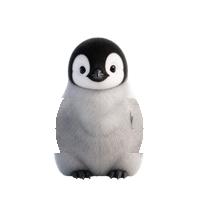
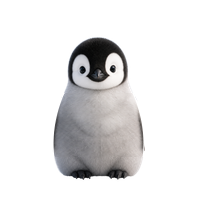
Add files via upload

diff --git a/index.html b/index.html
@@ -146,8 +146,8 @@ h1 { font-family: var(--f-display); font-weight: 400; font-size: 34px; line-heig
 
 .cheer { display: flex; align-items: center; gap: 12px; }
 .pup > img { position: absolute; inset: 0; width: 100%; height: 100%; }
-.pup .wingL { transform-origin: 35% 50%; animation: flapL 2.4s ease-in-out infinite; }
-.pup .wingR { transform-origin: 65% 50%; animation: flapR 2.4s ease-in-out infinite; }
+.pup .wingL { transform-origin: 31% 50%; animation: flapL 2.4s ease-in-out infinite; }
+.pup .wingR { transform-origin: 69% 50%; animation: flapR 2.4s ease-in-out infinite; }
 .pup.hop .wingL { animation: flapL .5s ease-in-out 2; }
 .pup.hop .wingR { animation: flapR .5s ease-in-out 2; }
 @keyframes flapL { 0%, 45%, 100% { transform: rotate(0deg); } 10%, 30% { transform: rotate(18deg); } 20%, 40% { transform: rotate(4deg); } }

diff --git a/sw.js b/sw.js
@@ -1,6 +1,6 @@
 // Offline support: keep the app's own files on the phone so it opens without internet.
 // Change VERSION whenever any file changes, so phones pick up the new version.
-const VERSION = "penguin-checklist-v20";
+const VERSION = "penguin-checklist-v22";
 const FILES = [
   "./",
   "index.html",
